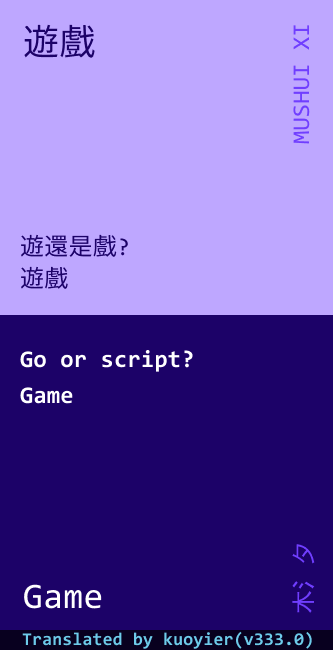
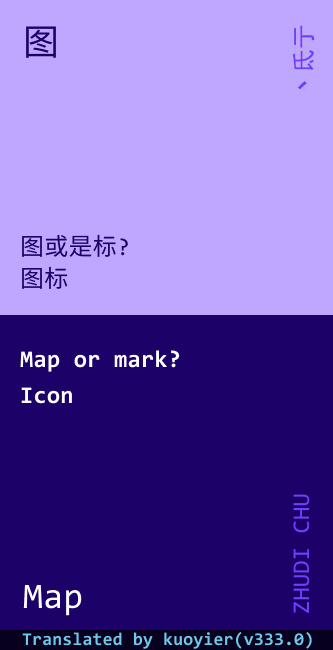
deploy: 74cc6d8a0b6291a0d99ebf1ef459e120102170af

diff --git a/posts/uf-on-women/index.html b/posts/uf-on-women/index.html
@@ -55,6 +55,13 @@
 <p>「還有這些」C指著：</p>
 <div class=picture>
 <picture>
+<source media="(min-width: 535px)" srcset=/images/orig/uf/poem/tu@2x.png>
+<source media="(max-width: 534px)" srcset="/images/orig/uf/poem/tu.png 1x">
+<img src=/images/orig/uf/poem/tu.png alt>
+</picture>
+</div>
+<div class=picture>
+<picture>
 <source media="(min-width: 535px)" srcset=/images/orig/uf/poem/game@2x.png>
 <source media="(max-width: 534px)" srcset="/images/orig/uf/poem/game.png 1x">
 <img src=/images/orig/uf/poem/game.png alt>
